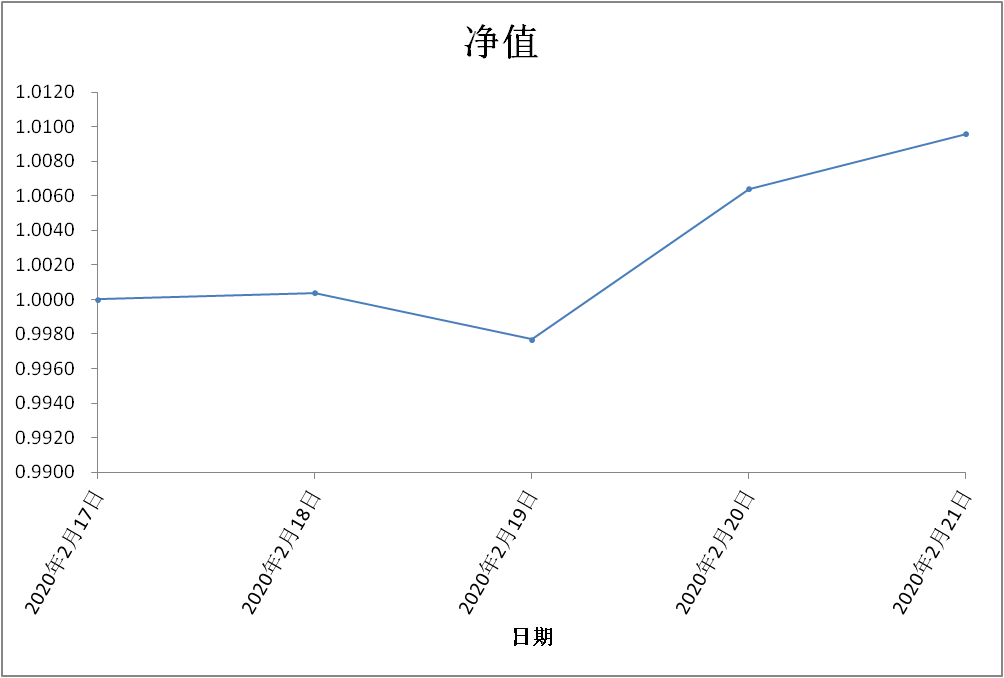
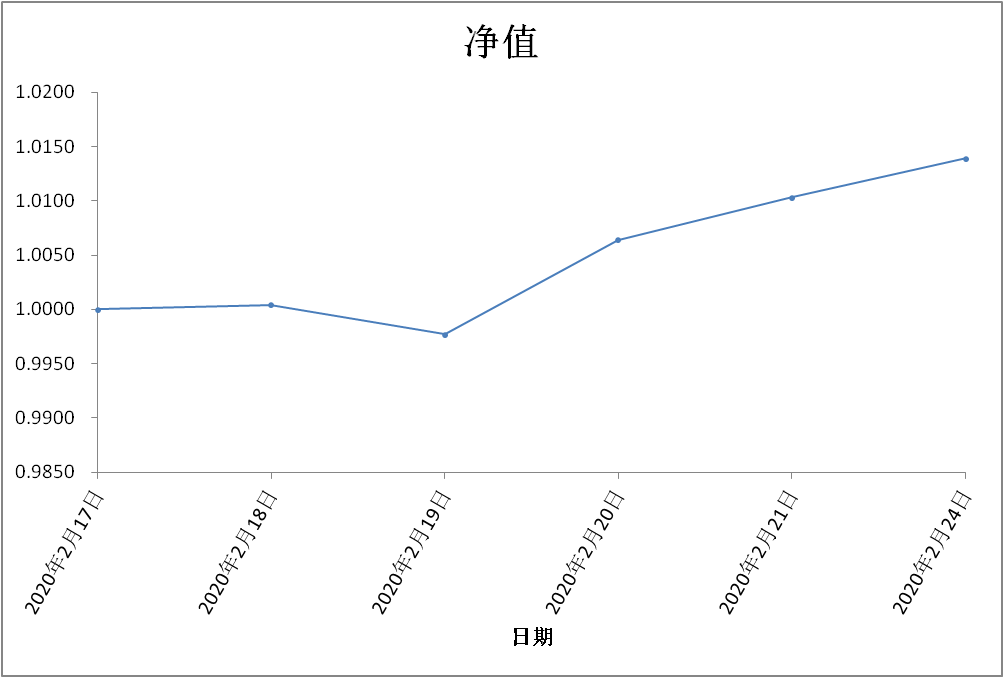
update worth

diff --git a/index.files/sheet002.htm b/index.files/sheet002.htm
@@ -112,7 +112,7 @@ else
   vglayout2'>
   <table cellpadding=0 cellspacing=0>
    <tr>
-    <td colspan=5 height=20 class=xl162 width=568 style='border-right:1.5pt solid white;
+    <td colspan=5 height=20 class=xl164 width=568 style='border-right:1.5pt solid white;
     height:15.0pt;width:426pt'>组合净值变化（来自天天基金网）</td>
    </tr>
   </table>
@@ -137,7 +137,7 @@ else
    </v:formulas>
    <v:path o:extrusionok="f" gradientshapeok="t" o:connecttype="rect"/>
    <o:lock v:ext="edit" aspectratio="t"/>
-  </v:shapetype><v:shape id="图表_x0020_7" o:spid="_x0000_s1026" type="#_x0000_t75"
+  </v:shapetype><v:shape id="图表_x0020_3" o:spid="_x0000_s1026" type="#_x0000_t75"
    style='position:absolute;margin-left:5.25pt;margin-top:5.25pt;width:481.5pt;
[2 lines of base64/hex data omitted]
@@ -149,51 +149,51 @@ AAAAIQA4/SH/1gAAAJQBAAALAAAAX3JlbHMvLnJlbHOkkMFqwzAMhu+DvYPRfXGawxijTi+j0Gvp
[56 lines of base64/hex data omitted]
-MS54bWxQSwUGAAAAAAYABgB9AQAAjgoAAAAA
[31 lines of base64/hex data omitted]
+LnhtbFBLBQYAAAAABgAGAH0BAACNCgAAAAA=
 ">
    <v:imagedata src="image002.png" o:title=""/>
    <o:lock v:ext="edit" aspectratio="f"/>
@@ -204,7 +204,7 @@ MS54bWxQSwUGAAAAAAYABgB9AQAAjgoAAAAA
    </x:ClientData>
   </v:shape><![endif]--><![if !vml]><span style='mso-ignore:vglayout;
   position:absolute;z-index:1;margin-left:7px;margin-top:7px;width:642px;
-  height:434px'><img width=642 height=434 src=image003.gif v:shapes="图表_x0020_7"></span><![endif]><span
+  height:434px'><img width=642 height=434 src=image003.gif v:shapes="图表_x0020_3"></span><![endif]><span
   style='mso-ignore:vglayout2'>
   <table cellpadding=0 cellspacing=0>
    <tr>
@@ -341,15 +341,35 @@ MS54bWxQSwUGAAAAAAYABgB9AQAAjgoAAAAA
   <td class=xl119 style='border-top:none;border-left:none'>　</td>
   <td class=xl119 style='border-top:none;border-left:none'>　</td>
  </tr>
+ <tr height=18 style='height:13.5pt'>
+  <td height=18 class=xl145 style='height:13.5pt'>2020年2月21日</td>
+  <td class=xl139 align=right>1.0103 </td>
+  <td class=xl118 align=right style='border-top:none;border-left:none'>0.0039 </td>
+  <td class=xl117 align=right style='border-top:none;border-left:none;
+  font-size:11.0pt;color:#FF5C5C;font-weight:700;text-decoration:none;
+  text-underline-style:none;text-line-through:none;font-family:宋体;border:.5pt solid white;
+  background:black;mso-pattern:black none'>0.39%</td>
+  <td class=xl146 style='border-left:none'>　</td>
+  <td class=xl123 style='border-top:none'>　</td>
+  <td class=xl119 style='border-top:none;border-left:none'>　</td>
+  <td class=xl119 style='border-top:none;border-left:none'>　</td>
+  <td class=xl119 style='border-top:none;border-left:none'>　</td>
+  <td class=xl119 style='border-top:none;border-left:none'>　</td>
+  <td class=xl119 style='border-top:none;border-left:none'>　</td>
+  <td class=xl119 style='border-top:none;border-left:none'>　</td>
+  <td class=xl119 style='border-top:none;border-left:none'>　</td>
+  <td class=xl119 style='border-top:none;border-left:none'>　</td>
+  <td class=xl119 style='border-top:none;border-left:none'>　</td>
+ </tr>
  <tr height=19 style='height:14.25pt'>
-  <td height=19 class=xl142 style='height:14.25pt'>2020年2月21日</td>
-  <td class=xl134 align=right>1.0096 </td>
-  <td class=xl165 align=right style='border-top:none;border-left:none'>0.0032 </td>
-  <td class=xl166 align=right style='border-top:none;border-left:none;
+  <td height=19 class=xl142 style='height:14.25pt'>2020年2月24日</td>
+  <td class=xl134 align=right>1.0139 </td>
+  <td class=xl147 align=right style='border-top:none;border-left:none'>0.0036 </td>
+  <td class=xl148 align=right style='border-top:none;border-left:none;
   font-size:11.0pt;color:#FF5C5C;font-weight:700;text-decoration:none;
   text-underline-style:none;text-line-through:none;font-family:宋体;border-top:
   .5pt solid white;border-right:.5pt solid white;border-bottom:1.5pt solid white;
-  border-left:.5pt solid white;background:black;mso-pattern:black none'>0.32%</td>
+  border-left:.5pt solid white;background:black;mso-pattern:black none'>0.36%</td>
   <td class=xl128 style='border-left:none'>　</td>
   <td class=xl123 style='border-top:none'>　</td>
   <td class=xl119 style='border-top:none;border-left:none'>　</td>
@@ -368,23 +388,6 @@ MS54bWxQSwUGAAAAAAYABgB9AQAAjgoAAAAA
   <td class=xl125 style='border-left:none'>　</td>
   <td class=xl126 style='border-left:none'>　</td>
   <td class=xl125 style='border-left:none'>　</td>
-  <td class=xl119 style='border-top:none;border-left:none'>　</td>
-  <td class=xl119 style='border-top:none;border-left:none'>　</td>
-  <td class=xl119 style='border-top:none;border-left:none'>　</td>
-  <td class=xl119 style='border-top:none;border-left:none'>　</td>
-  <td class=xl119 style='border-top:none;border-left:none'>　</td>
-  <td class=xl119 style='border-top:none;border-left:none'>　</td>
-  <td class=xl119 style='border-top:none;border-left:none'>　</td>
-  <td class=xl119 style='border-top:none;border-left:none'>　</td>
-  <td class=xl119 style='border-top:none;border-left:none'>　</td>
-  <td class=xl119 style='border-top:none;border-left:none'>　</td>
- </tr>
- <tr height=18 style='height:13.5pt'>
-  <td height=18 class=xl144 style='height:13.5pt;border-top:none'>　</td>
-  <td class=xl120 style='border-top:none;border-left:none'>　</td>
-  <td class=xl122 style='border-top:none;border-left:none'>　</td>
-  <td class=xl121 style='border-top:none;border-left:none'>　</td>
-  <td class=xl122 style='border-top:none;border-left:none'>　</td>
   <td class=xl119 style='border-top:none;border-left:none'>　</td>
   <td class=xl119 style='border-top:none;border-left:none'>　</td>
   <td class=xl119 style='border-top:none;border-left:none'>　</td>

diff --git a/index.files/sheet001.htm b/index.files/sheet001.htm
@@ -79,7 +79,7 @@ else
  <col class=xl68 width=102 span=2 style='mso-width-source:userset;mso-width-alt:
  3264;width:77pt'>
  <tr height=24 style='mso-height-source:userset;height:18.0pt'>
-  <td colspan=14 height=24 class=xl151 width=1302 style='border-right:1.5pt solid black;
+  <td colspan=14 height=24 class=xl153 width=1302 style='border-right:1.5pt solid black;
   height:18.0pt;width:979pt'>稳健情怀混合策略1期</td>
  </tr>
  <tr height=18 style='height:13.5pt'>
@@ -89,7 +89,7 @@ else
   <td class=xl94 style='border-left:none'>评估风险</td>
   <td class=xl95 style='border-left:none'>比重</td>
   <td class=xl94 style='border-left:none'>比重分数</td>
-  <td colspan=2 class=xl154 style='border-left:none'>求和比重</td>
+  <td colspan=2 class=xl156 style='border-left:none'>求和比重</td>
   <td class=xl95 style='border-left:none'>1年加权收益率</td>
   <td class=xl95 style='border-left:none'>加权评估风险</td>
   <td class=xl94 style='border-left:none'>手续费率</td>
@@ -106,8 +106,8 @@ else
   <td class=xl70 align=right style='border-top:none;border-left:none'>0.83%</td>
   <td class=xl71 align=right style='border-top:none;border-left:none'>10.2323%</td>
   <td class=xl70 align=right style='border-top:none;border-left:none'>20.19%</td>
-  <td rowspan=2 class=xl156 style='border-top:none'>50.68%</td>
-  <td rowspan=3 class=xl155 style='border-top:none'>56.11%</td>
+  <td rowspan=2 class=xl158 style='border-top:none'>50.68%</td>
+  <td rowspan=3 class=xl157 style='border-top:none'>56.11%</td>
   <td class=xl71 align=right style='border-top:none;border-left:none'>1.0294%</td>
   <td class=xl71 align=right style='border-top:none;border-left:none'>0.0849%</td>
   <td class=xl70 align=right style='border-top:none;border-left:none'>0.08%</td>
@@ -151,7 +151,7 @@ else
   <td class=xl79 align=right style='border-top:none;border-left:none'>12.75%</td>
   <td class=xl80 align=right style='border-top:none;border-left:none'>9.7900%</td>
   <td class=xl79 align=right style='border-top:none;border-left:none'>100.00%</td>
-  <td colspan=2 class=xl157 style='border-left:none'>9.79%</td>
+  <td colspan=2 class=xl159 style='border-left:none'>9.79%</td>
   <td class=xl80 align=right style='border-top:none;border-left:none'>1.8816%</td>
   <td class=xl80 align=right style='border-top:none;border-left:none'>1.2482%</td>
   <td class=xl79 align=right style='border-top:none;border-left:none'>0.00%</td>
@@ -166,7 +166,7 @@ else
   <td class=xl82 align=right style='border-top:none;border-left:none'>15.13%</td>
   <td class=xl83 align=right style='border-top:none;border-left:none'>8.2500%</td>
   <td class=xl82 align=right style='border-top:none;border-left:none'>100.00%</td>
-  <td colspan=2 class=xl158 style='border-left:none'>8.25%</td>
+  <td colspan=2 class=xl160 style='border-left:none'>8.25%</td>
   <td class=xl83 align=right style='border-top:none;border-left:none'>2.7530%</td>
   <td class=xl83 align=right style='border-top:none;border-left:none'>1.2482%</td>
   <td class=xl82 align=right style='border-top:none;border-left:none'>0.15%</td>
@@ -182,7 +182,7 @@ else
   <td class=xl77 align=right style='border-top:none;border-left:none'>10.0000%</td>
   <td class=xl76 align=right style='border-top:none;border-left:none'>100.00%</td>
   <td class=xl76 align=right style='border-top:none;border-left:none'>10.00%</td>
-  <td rowspan=3 class=xl159 style='border-bottom:1.0pt solid black;border-top:
+  <td rowspan=3 class=xl161 style='border-bottom:1.0pt solid black;border-top:
   none'>25.85%</td>
   <td class=xl77 align=right style='border-top:none;border-left:none'>5.4080%</td>
   <td class=xl77 align=right style='border-top:none;border-left:none'>1.2480%</td>
@@ -198,7 +198,7 @@ else
   <td class=xl76 align=right style='border-top:none;border-left:none'>14.20%</td>
   <td class=xl77 align=right style='border-top:none;border-left:none'>8.7872%</td>
   <td class=xl76 align=right style='border-top:none;border-left:none'>55.44%</td>
-  <td rowspan=2 class=xl159 style='border-bottom:1.0pt solid black;border-top:
+  <td rowspan=2 class=xl161 style='border-bottom:1.0pt solid black;border-top:
   none'>15.85%</td>
   <td class=xl77 align=right style='border-top:none;border-left:none'>4.5746%</td>
   <td class=xl77 align=right style='border-top:none;border-left:none'>1.2478%</td>
@@ -228,7 +228,7 @@ else
   <td class=xl90 style='border-left:none'>　</td>
   <td class=xl91 style='border-left:none'>　</td>
   <td class=xl92 align=right style='border-left:none'>100.00%</td>
-  <td colspan=2 class=xl161 style='border-left:none'>100.00%</td>
+  <td colspan=2 class=xl163 style='border-left:none'>100.00%</td>
   <td class=xl91 style='border-left:none'>　</td>
   <td class=xl91 style='border-left:none'>　</td>
   <td class=xl91 align=right style='border-left:none'>0.0679%</td>
@@ -240,9 +240,9 @@ else
   <td height=19 class=xl99 style='height:14.25pt;border-top:none'>统计栏</td>
   <td class=xl102 style='border-top:none;border-left:none'>低风险收益边际区间</td>
   <td class=xl85 align=right style='border-top:none;border-left:none'>6.8932%</td>
-  <td colspan=2 class=xl147 style='border-left:none'>总收益/风险</td>
+  <td colspan=2 class=xl149 style='border-left:none'>总收益/风险</td>
   <td class=xl85 align=right style='border-top:none;border-left:none'>22.5903%</td>
-  <td colspan=2 class=xl148 style='border-left:none'>6.4101%</td>
+  <td colspan=2 class=xl150 style='border-left:none'>6.4101%</td>
   <td class=xl102 style='border-top:none;border-left:none'>期望收益</td>
   <td class=xl85 align=right style='border-top:none;border-left:none'>16.1802%</td>
   <td class=xl84 style='border-top:none;border-left:none'>　</td>
@@ -252,7 +252,7 @@ else
  </tr>
  <tr height=256 style='mso-height-source:userset;height:192.0pt'>
   <td height=256 class=xl101 style='height:192.0pt'>说明</td>
-  <td colspan=13 class=xl149 width=1242 style='border-right:1.5pt solid black;
+  <td colspan=13 class=xl151 width=1242 style='border-right:1.5pt solid black;
   border-left:none;width:934pt'>名称：稳健情怀混合策略1期<br>
     考察区间：2019年02月13日-2020年02月13日<br>
     选取策略：<br>

diff --git a/index.files/stylesheet.css b/index.files/stylesheet.css
@@ -733,6 +733,27 @@ td
 	mso-pattern:black none;}
 .xl147
 	{mso-style-parent:style0;
+	color:#C8C8C8;
+	font-weight:700;
+	mso-number-format:"0\.0000_ ";
+	border-top:.5pt solid white;
+	border-right:.5pt solid white;
+	border-bottom:1.5pt solid white;
+	border-left:.5pt solid white;
+	background:black;
+	mso-pattern:black none;}
+.xl148
+	{mso-style-parent:style0;
+	color:white;
+	mso-number-format:Percent;
+	border-top:.5pt solid white;
+	border-right:.5pt solid white;
+	border-bottom:1.5pt solid white;
+	border-left:.5pt solid white;
+	background:black;
+	mso-pattern:black none;}
+.xl149
+	{mso-style-parent:style0;
 	font-weight:700;
 	text-align:center;
 	border-top:.5pt solid windowtext;
@@ -741,7 +762,7 @@ td
 	border-left:.5pt solid windowtext;
 	background:#B2A1C7;
 	mso-pattern:black none;}
-.xl148
+.xl150
 	{mso-style-parent:style0;
 	mso-number-format:"0\.0000%";
 	text-align:center;
@@ -751,7 +772,7 @@ td
 	border-left:.5pt solid windowtext;
 	background:#B2A1C7;
 	mso-pattern:black none;}
-.xl149
+.xl151
 	{mso-style-parent:style0;
 	border-top:none;
 	border-right:.5pt solid windowtext;
@@ -760,7 +781,7 @@ td
 	background:#B6DDE8;
 	mso-pattern:black none;
 	white-space:normal;}
-.xl150
+.xl152
 	{mso-style-parent:style0;
 	border-top:none;
 	border-right:1.5pt solid windowtext;
@@ -769,7 +790,7 @@ td
 	background:#B6DDE8;
 	mso-pattern:black none;
 	white-space:normal;}
-.xl151
+.xl153
 	{mso-style-parent:style0;
 	font-weight:700;
 	mso-number-format:"\@";
@@ -780,7 +801,7 @@ td
 	border-left:1.5pt solid windowtext;
 	background:#C5BE97;
 	mso-pattern:black none;}
-.xl152
+.xl154
 	{mso-style-parent:style0;
 	font-weight:700;
 	mso-number-format:"\@";
@@ -791,7 +812,7 @@ td
 	border-left:.5pt solid windowtext;
 	background:#C5BE97;
 	mso-pattern:black none;}
-.xl153
+.xl155
 	{mso-style-parent:style0;
 	font-weight:700;
 	mso-number-format:"\@";
@@ -802,7 +823,7 @@ td
 	border-left:.5pt solid windowtext;
 	background:#C5BE97;
 	mso-pattern:black none;}
-.xl154
+.xl156
 	{mso-style-parent:style0;
 	font-weight:700;
 	text-align:center;
@@ -812,42 +833,42 @@ td
 	border-left:.5pt solid windowtext;
 	background:#7F7F7F;
 	mso-pattern:black none;}
-.xl155
+.xl157
 	{mso-style-parent:style0;
 	mso-number-format:Percent;
 	text-align:center;
 	border:.5pt solid windowtext;
 	background:#4BACC6;
 	mso-pattern:black none;}
-.xl156
+.xl158
 	{mso-style-parent:style0;
 	mso-number-format:Percent;
 	text-align:center;
 	border:.5pt solid windowtext;
 	background:#538ED5;
 	mso-pattern:black none;}
-.xl157
+.xl159
 	{mso-style-parent:style0;
 	mso-number-format:Percent;
 	text-align:center;
 	border:.5pt solid windowtext;
 	background:#C2D69A;
 	mso-pattern:black none;}
-.xl158
+.xl160
 	{mso-style-parent:style0;
 	mso-number-format:Percent;
 	text-align:center;
 	border:.5pt solid windowtext;
 	background:#FAC090;
 	mso-pattern:black none;}
-.xl159
+.xl161
 	{mso-style-parent:style0;
 	mso-number-format:Percent;
 	text-align:center;
 	border:.5pt solid windowtext;
 	background:#D99795;
 	mso-pattern:black none;}
-.xl160
+.xl162
 	{mso-style-parent:style0;
 	mso-number-format:Percent;
 	text-align:center;
@@ -857,7 +878,7 @@ td
 	border-left:.5pt solid windowtext;
 	background:#D99795;
 	mso-pattern:black none;}
-.xl161
+.xl163
 	{mso-style-parent:style0;
 	mso-number-format:Percent;
 	text-align:center;
@@ -867,7 +888,7 @@ td
 	border-left:.5pt solid windowtext;
 	background:#B2A1C7;
 	mso-pattern:black none;}
-.xl162
+.xl164
 	{mso-style-parent:style0;
 	color:#F5FDA6;
 	font-weight:700;
@@ -879,7 +900,7 @@ td
 	border-left:1.5pt solid white;
 	background:black;
 	mso-pattern:black none;}
-.xl163
+.xl165
 	{mso-style-parent:style0;
 	color:#F5FDA6;
 	font-weight:700;
@@ -891,7 +912,7 @@ td
 	border-left:.5pt solid white;
 	background:black;
 	mso-pattern:black none;}
-.xl164
+.xl166
 	{mso-style-parent:style0;
 	color:#F5FDA6;
 	font-weight:700;
@@ -900,27 +921,6 @@ td
 	border-top:1.5pt solid white;
 	border-right:1.5pt solid white;
 	border-bottom:1.0pt solid white;
-	border-left:.5pt solid white;
-	background:black;
-	mso-pattern:black none;}
-.xl165
-	{mso-style-parent:style0;
-	color:#C8C8C8;
-	font-weight:700;
-	mso-number-format:"0\.0000_ ";
-	border-top:.5pt solid white;
-	border-right:.5pt solid white;
-	border-bottom:1.5pt solid white;
-	border-left:.5pt solid white;
-	background:black;
-	mso-pattern:black none;}
-.xl166
-	{mso-style-parent:style0;
-	color:white;
-	mso-number-format:Percent;
-	border-top:.5pt solid white;
-	border-right:.5pt solid white;
-	border-bottom:1.5pt solid white;
 	border-left:.5pt solid white;
 	background:black;
 	mso-pattern:black none;}
